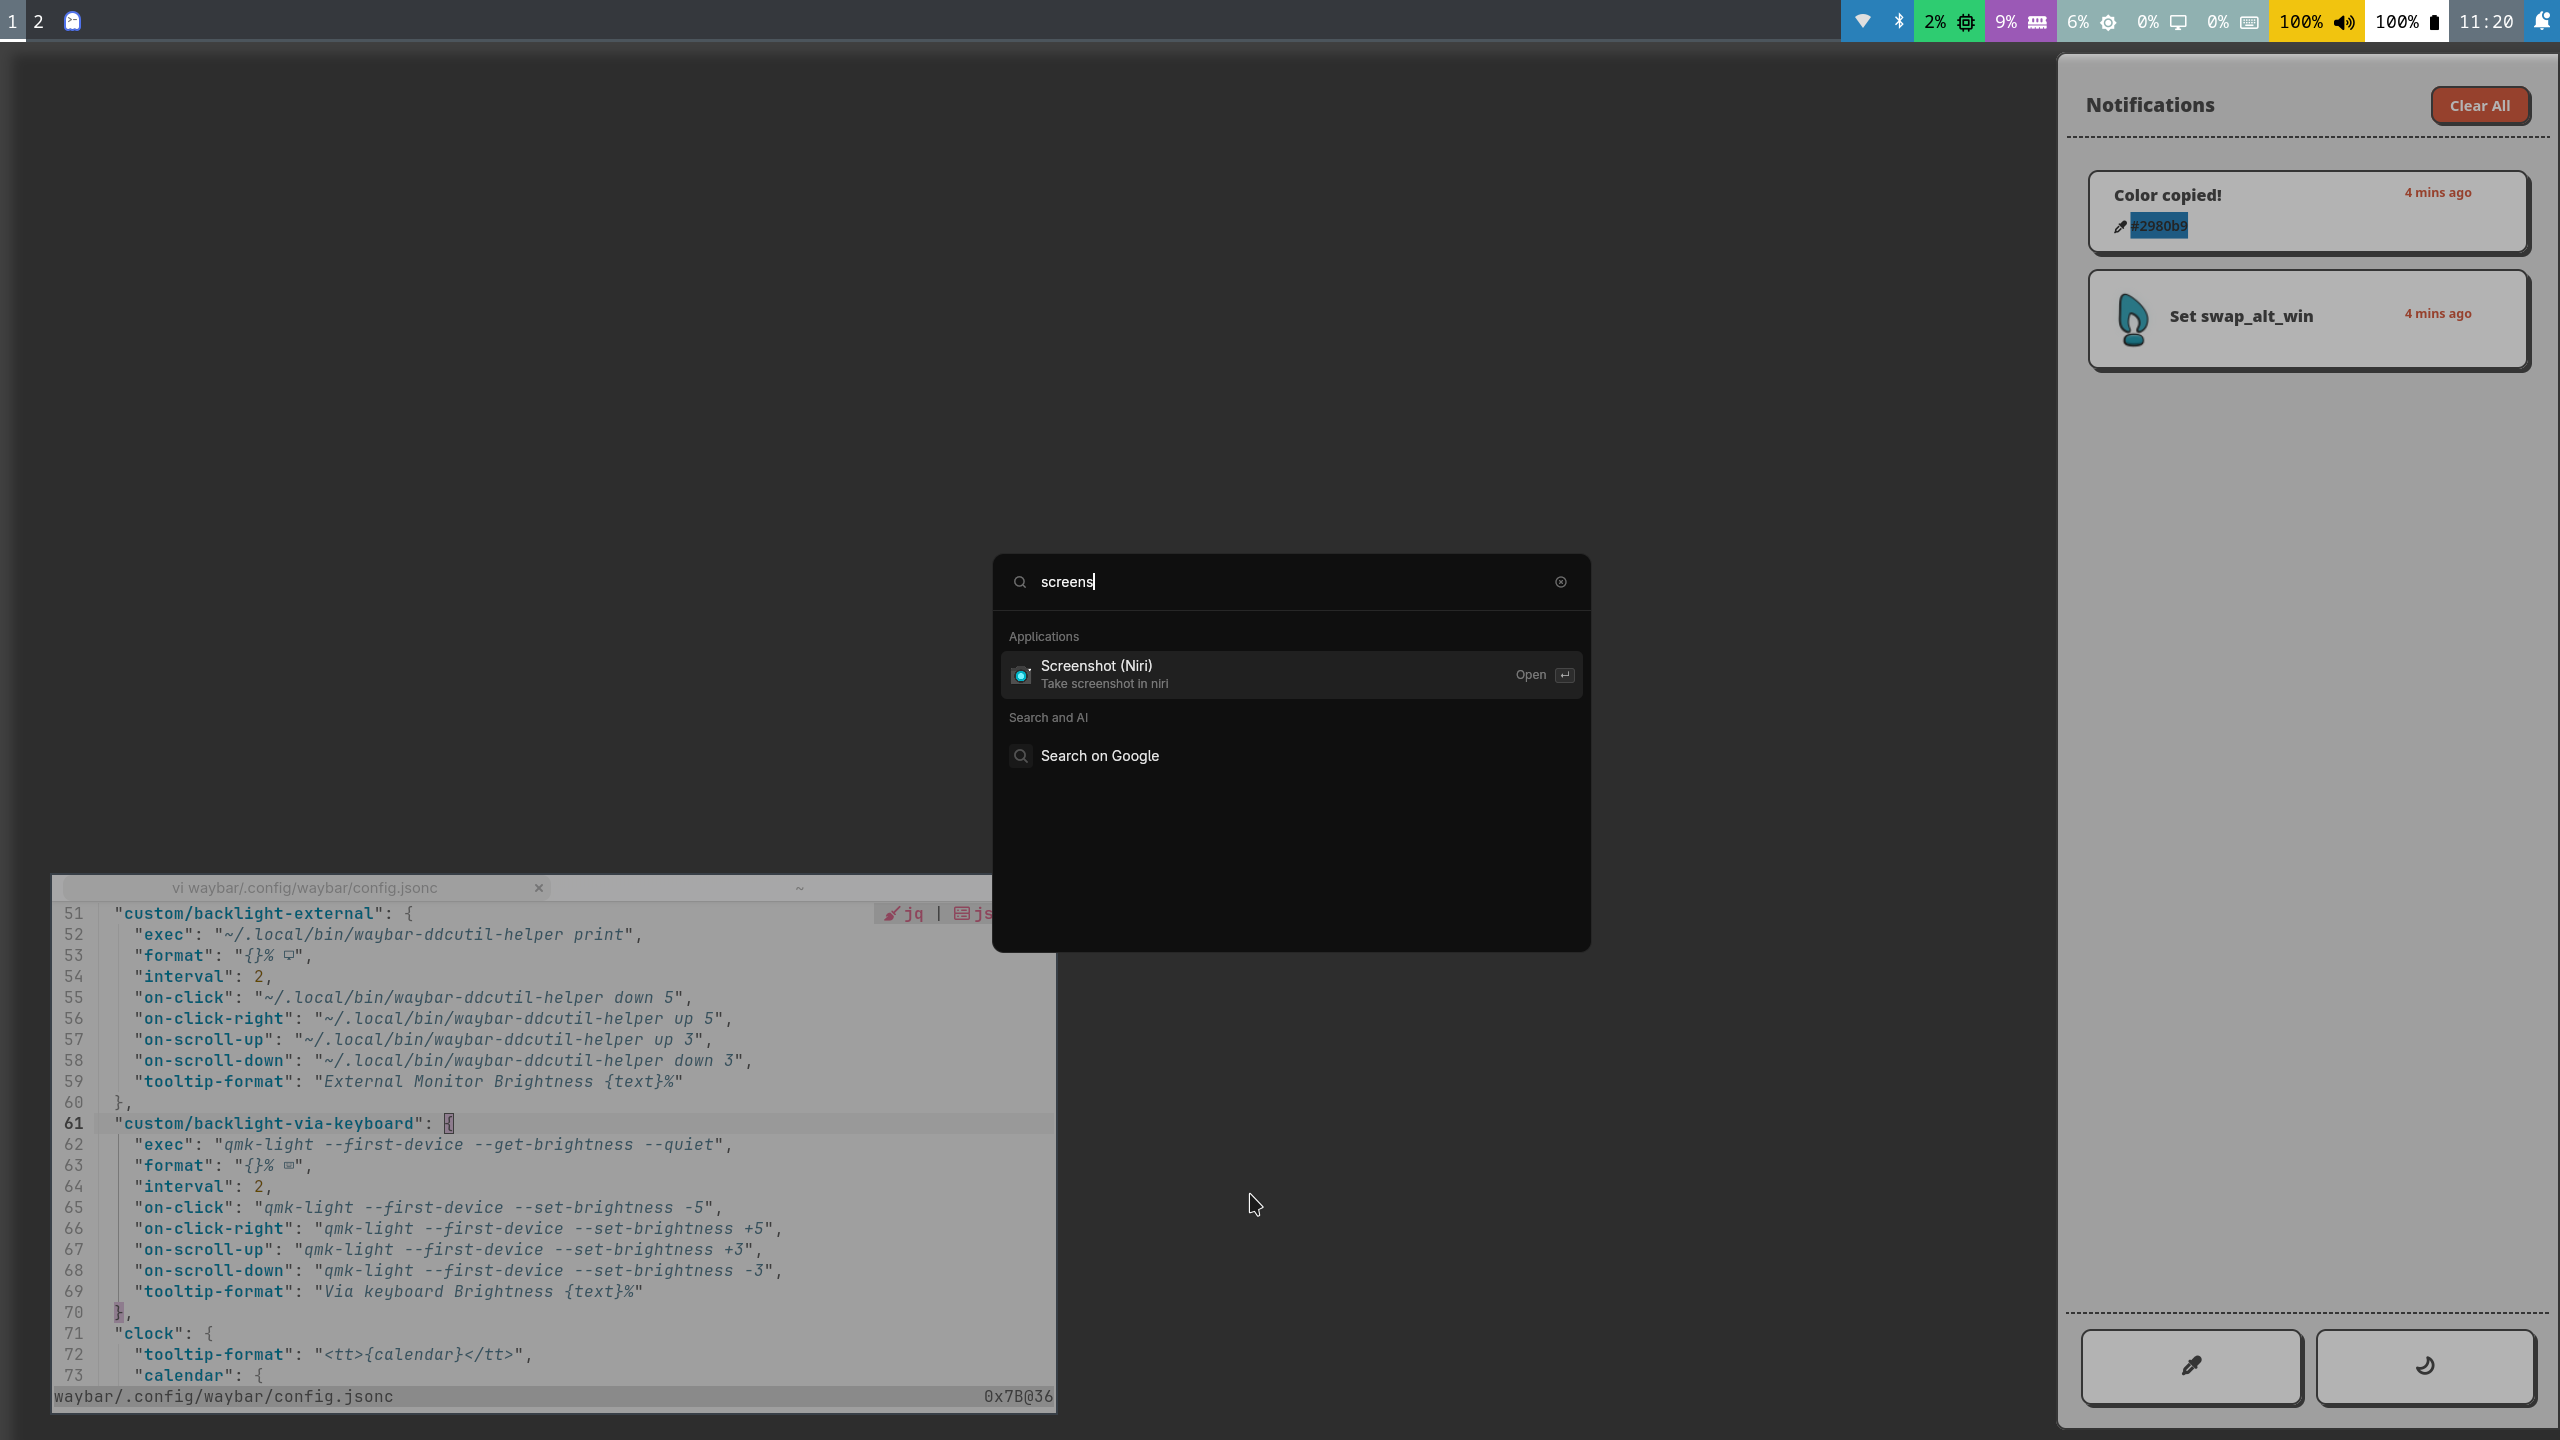
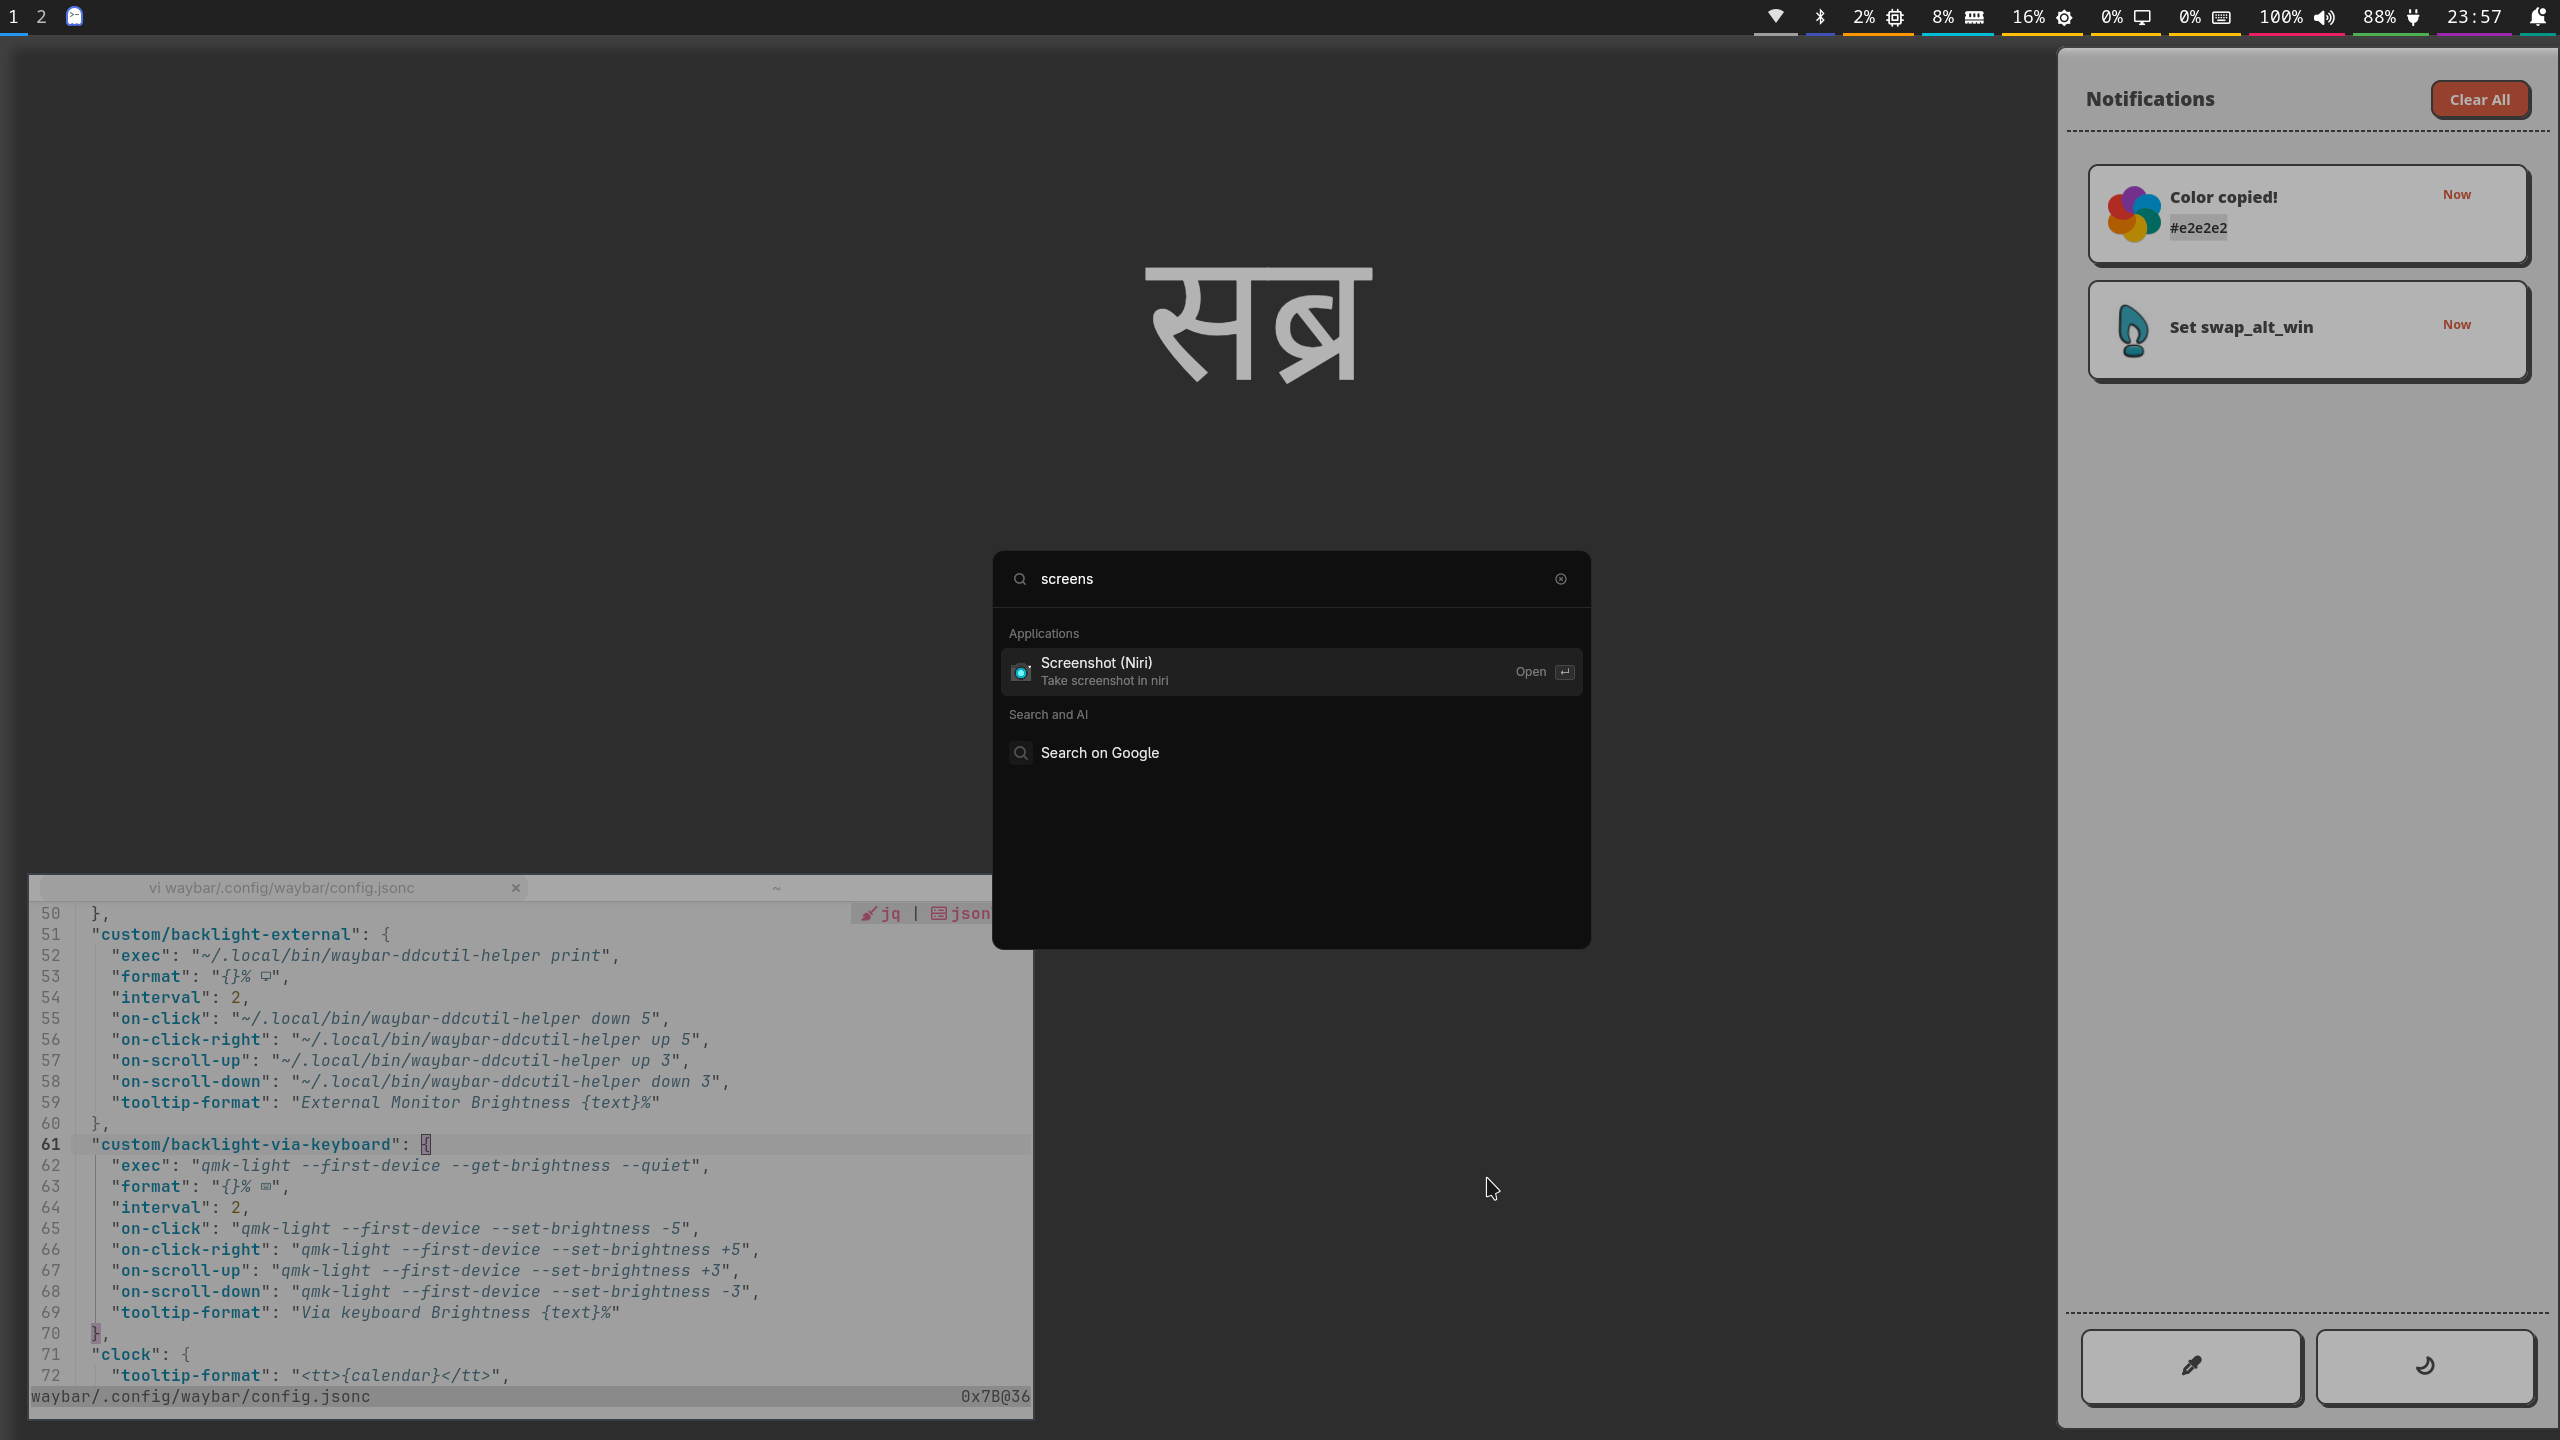
[waybar] Rewamp waybar config

diff --git a/waybar/.config/waybar/style.css b/waybar/.config/waybar/style.css
@@ -1,34 +1,83 @@
-@import "/etc/xdg/waybar/style.css";
-
 * {
+    border: none;
+    border-radius: 0;
+    min-height: 0;
     font-size: 18px;
     font-family: 'Noto Sans Mono', 'Symbols Nerd Font Mono', 'Font Awesome 6 Brands', monospace;
 }
 
+window#waybar {
+    background-color: #212121;
+    color: #fff;
+    border-bottom: 1px solid #424242;
+}
+
+#workspaces button, #taskbar button {
+    padding: 0 6px;
+    background-color: transparent;
+    color: #BDBDBD;
+    border-bottom: 3px solid transparent;
+    transition: all 0.2s ease;
+}
+
+#workspaces button.active, #taskbar button.active {
+    color: #FEFEFE;
+    border-bottom: 3px solid #2196F3;
+}
+
+#workspaces button:hover, #taskbar button:hover {
+    box-shadow: none;
+    background: rgba(210, 210, 210, 0.2);
+}
+
+#clock, #battery, #cpu, #memory, #backlight, #custom-backlight-external, #custom-backlight-via-keyboard, #pulseaudio, #tray, #bluetooth, #custom-notification {
+    padding: 0 10px;
+    margin: 0 4px;
+    background-color: transparent;
+    border-bottom: 3px solid transparent;
+}
+
+#clock {
+    border-bottom-color: #9C27B0;
+}
+
+#battery {
+    border-bottom-color: #4CAF50;
+}
+
+#battery.warning {
+    border-bottom-color: #FFEB3B;
+}
+
+#battery.critical {
+    border-bottom-color: #F44336;
+    color: #F44336;
+}
+
+#cpu {
+    border-bottom-color: #FF9800;
+}
+
+#memory {
+    border-bottom-color: #00BCD4;
+}
+
+#backlight, #custom-backlight-external, #custom-backlight-via-keyboard {
+    border-bottom-color: #FFC107;
+}
+
+#pulseaudio {
+    border-bottom-color: #E91E63;
+}
+
 #bluetooth {
-    padding: 0 10px;
-    background-color: #2980b9;
+    border-bottom-color: #3F51B5;
 }
 
-/* https://github.com/Alexays/Waybar/issues/3334 */
-#taskbar button {
-    padding: 0;
-    padding-left: 4px;
-    padding-right: 4px;
-}
-
-#taskbar button.active {
-    box-shadow: inset 0 -3px #ffffff;
-}
-
-#custom-backlight-external, #custom-backlight-via-keyboard {
-    padding: 0 10px;
-    color: #ffffff;
-    background-color: #90b1b1;
+#tray {
+    border-bottom-color: #9E9E9E;
 }
 
 #custom-notification {
-    padding: 0 10px;
-    background-color: #2980b9;
+    border-bottom-color: #009688;
 }
-
